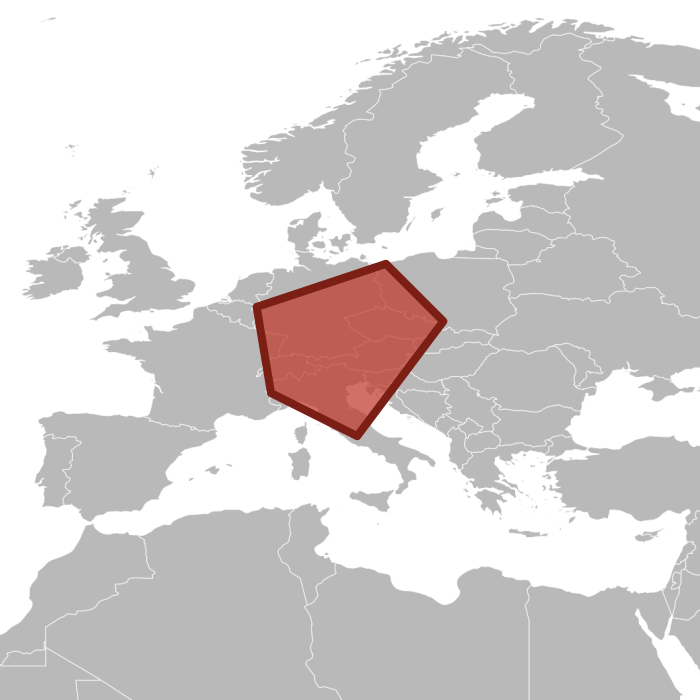
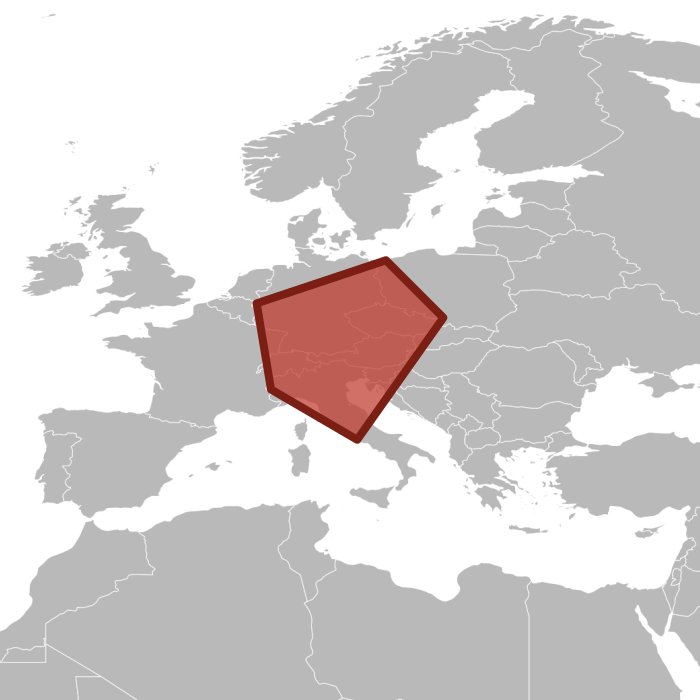
E96 GATE2 micro-fix: Holy Roman Empire southern vertex now covers Rome
GATE2 pixel-verified the earlier GATE1 fix (pulled back from Calabria) left
Rome itself just outside the fill (vertex at lat 42 vs Rome's 41.9). Nudged
to 41.5. Also corrected the carthaginian-empire code comment (GATE2
pixel-checked the western vertex to Nador, Morocco, not Algeria as the
comment claimed - the actual requirement, stopping short of Gibraltar, was
already satisfied, so no coordinate change needed there).

pickShort() simulation confirms holy-roman-empire appears in none of the 5
shorts and no thumbnail grid references it - only the main video needs
re-rendering.

diff --git a/src/Quiz/empiresE96Data.js b/src/Quiz/empiresE96Data.js
@@ -194,8 +194,10 @@ export const EMPIRES_E96 = [
     level: "medium",
     // ~1200 AD, Hohenstaufen era (Germany + Italian/Burgundian claims — pulled
     // back from Calabria to Rome/central Italy per GATE1: the far south was a
-    // separate Kingdom of Sicily, only briefly in personal union)
-    polygon: [[6,51],[7,45],[13,42],[19,50],[15,54]],
+    // separate Kingdom of Sicily, only briefly in personal union). GATE2
+    // pixel-verified the first fix's southern vertex (lat 42) sat just north
+    // of Rome, excluding it — nudged to 41.5 so Rome itself is covered.
+    polygon: [[6,51],[7,45],[13,41.5],[19,50],[15,54]],
   },
   {
     slug: "umayyad-caliphate",
@@ -287,8 +289,10 @@ export const EMPIRES_E96 = [
     name: "Carthaginian Empire",
     level: "medium",
     // ~265 BC, on the eve of the First Punic War — western tip pulled back
-    // from Gibraltar/Morocco to the Algerian coast per GATE1 (Barcid Iberia
-    // wasn't conquered until after 237 BC, later than this date)
+    // from Gibraltar to the Morocco/Algeria border area (GATE2 pixel-checked
+    // the exact vertex to Nador, Morocco — comment corrected) since Barcid
+    // Iberia wasn't conquered until after 237 BC, later than this date; the
+    // fix's real requirement (stop well short of Gibraltar) is satisfied
     polygon: [[-3,35],[10,33],[10,37],[9,42]],
   },
 
